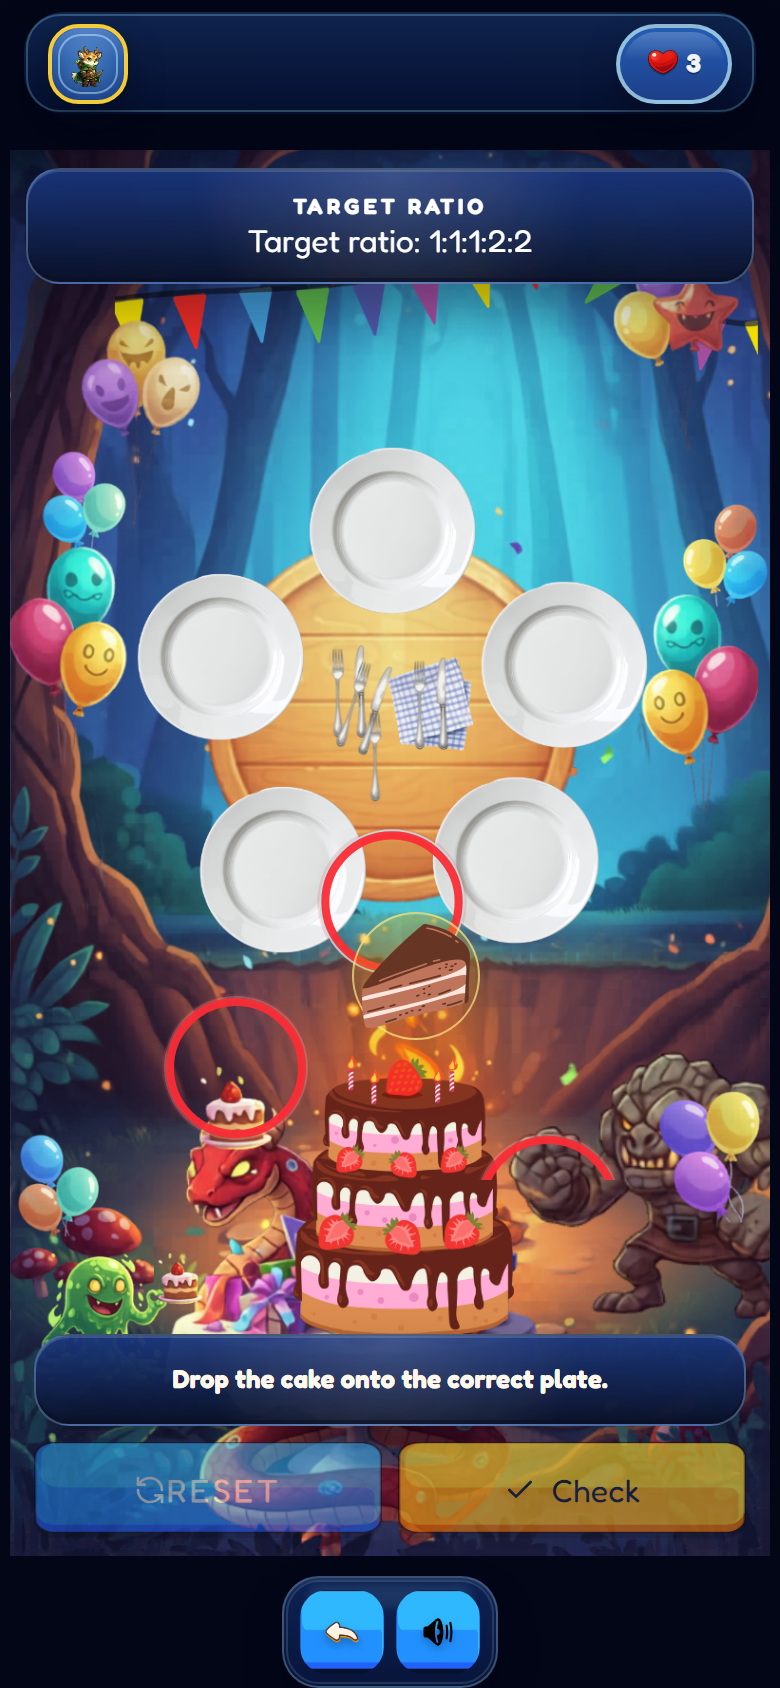
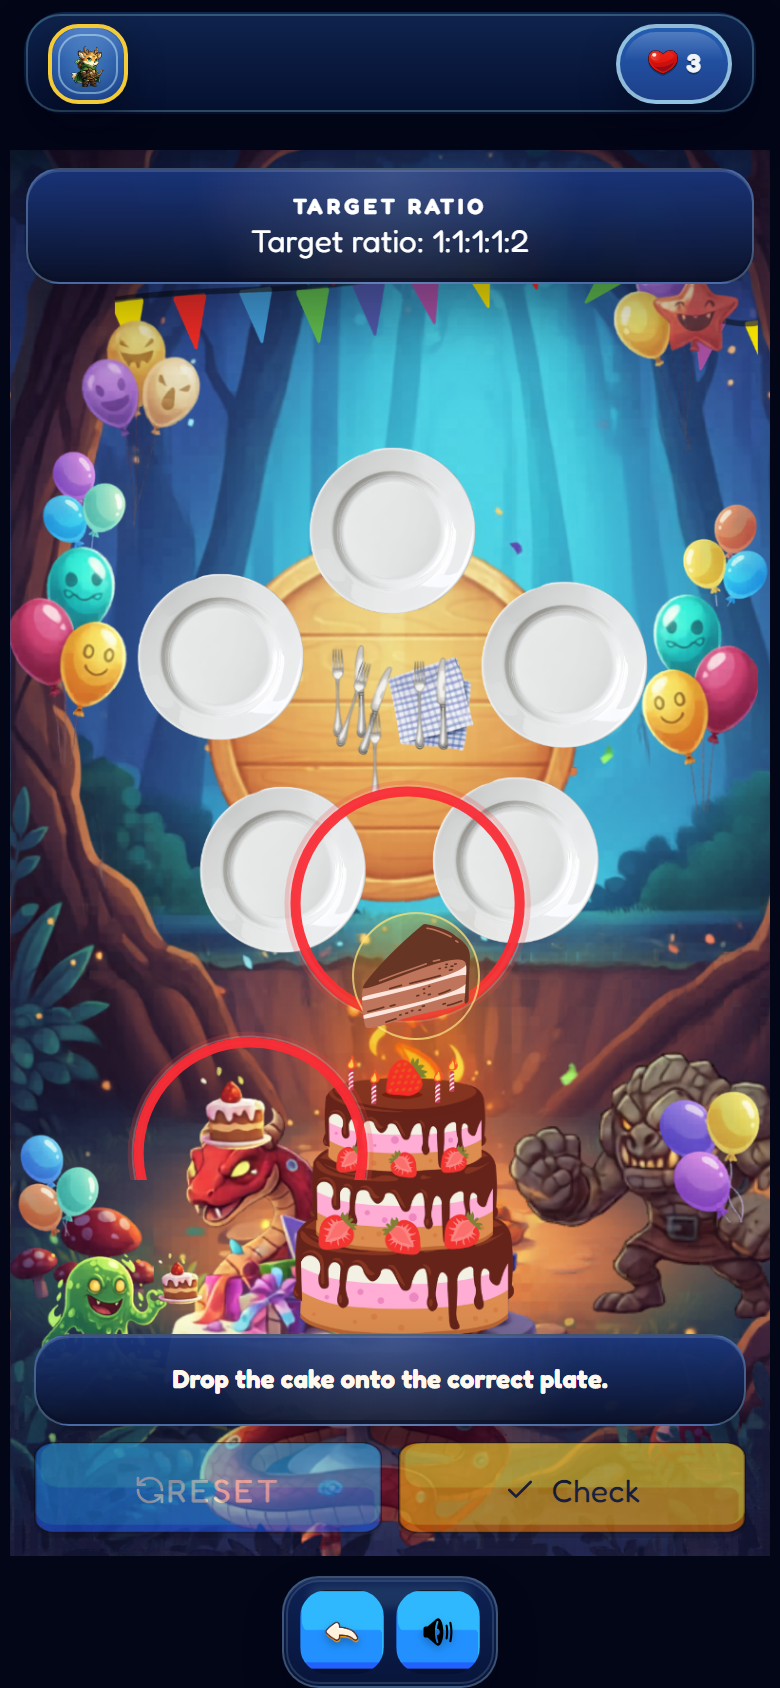
up

diff --git a/src/games/ShareSplitterGame.tsx b/src/games/ShareSplitterGame.tsx
@@ -101,11 +101,13 @@ const PLATE_POSITIONS_BY_COUNT: Record<number, Array<{ x: number; y: number }>> 
     { x: 33.5, y: 51.5 },
   ],
   5: [
-    { x: 50.3, y: 31.4 },
-    { x: 28.3, y: 38.9 },
-    { x: 72.3, y: 39.4 },
-    { x: 33.5, y: 51.5 },
-    { x: 66.9, y: 50.9 },
+    // Measured from the actual rendered game screenshot in viewport space.
+    // These are the visible plate centers on the live Share Splitter screen.
+    { x: 50.7, y: 31.6 },
+    { x: 28.7, y: 39.0 },
+    { x: 72.7, y: 39.5 },
+    { x: 42.6, y: 52.3 },
+    { x: 70.2, y: 50.4 },
   ],
 };
 
@@ -264,7 +266,7 @@ const ShareSplitterGame: React.FC<ShareSplitterGameProps> = ({
   const allSlicesUsed = remainingSlices === 0;
   const allCorrect = plateViews.every((plate) => plate.isCorrect);
   const platePositions = PLATE_POSITIONS_BY_COUNT[challenge.plateCount] || PLATE_POSITIONS_BY_COUNT[5];
-  const plateSize = 'clamp(4.25rem, 17vw, 5.25rem)';
+  const plateSize = 'clamp(6.9rem, 28vw, 7.2rem)';
   const promptText = isPractice
     ? `Target ratio: ${challenge.ratios.join(':')}`
     : `There are ${challenge.totalSlices} slices of brainpower cake.\nThe Monster Mind demands it is shared in a ratio of ${challenge.ratios.join(':')}.`;
@@ -581,7 +583,7 @@ const ShareSplitterGame: React.FC<ShareSplitterGameProps> = ({
                             }}
                             aria-label={`Plate ${index + 1}. ${plate.currentCakeCount} of ${plate.targetCakeCount} cakes placed.`}
                           >
-                            <div className="pointer-events-none absolute inset-[-2px] rounded-full border-[4px] border-red-500/95 shadow-[0_0_0_1px_rgba(255,255,255,0.18),0_0_0_2px_rgba(239,68,68,0.18)]" />
+                            <div className="pointer-events-none absolute inset-[-4px] rounded-full border-[5px] border-red-500/95 shadow-[0_0_0_1px_rgba(255,255,255,0.18),0_0_0_3px_rgba(239,68,68,0.22)]" />
                             <div className="grid h-full w-full grid-cols-3 place-items-center gap-0.5">
                               {plates[index].slice(0, 6).map((sliceId) => (
                                 <img

diff --git a/src/games/RatioFractionsGame.tsx b/src/games/RatioFractionsGame.tsx
@@ -491,7 +491,8 @@ const RatioFractionsGame: React.FC<RatioFractionsGameProps> = ({
   const trackSpan = Math.max(1, tuning.trackLength);
   const cameraWorldPosition = playerPosRef.current;
   const playerLeft = 50;
-  const enemyLeft = 50 + ((enemyPosRef.current - cameraWorldPosition) / trackSpan) * 100;
+  // Keep the enemy in its own world space so player boosts do not drag it along the camera.
+  const enemyLeft = clamp(12 + (enemyPosRef.current / trackSpan) * 92, -10, 110);
   const finishLeft = 50 + ((tuning.trackLength - cameraWorldPosition) / trackSpan) * 100;
   const showBoost = raceState === 'correctBoost';
   const showStall = raceState === 'incorrectStall';
